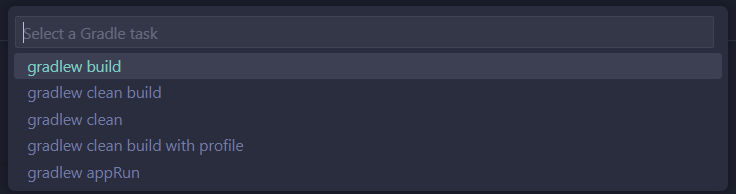
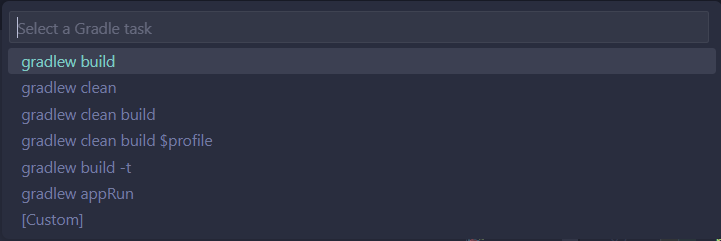
with profile => $profile 로 변경 readme file update

diff --git a/extension.js b/extension.js
@@ -50,10 +50,12 @@ async function selectDirectory() {
 
 async function executeGradleCommand(directory) {
   const config = vscode.workspace.getConfiguration("gradle.build.helper");
-  const commandScript = config.get("command") || "gradlew";
   const gradleTasks = config
     .get("tasks", [])
-    .map((task) => `${commandScript} ${task}`);
+    .map((task) => `${task}`);
+
+  // [Custom] 항목 추가
+  gradleTasks.push("[Custom]");
 
   const selectedTask = await vscode.window.showQuickPick(gradleTasks, {
     placeHolder: "Select a Gradle task",
@@ -62,19 +64,23 @@ async function executeGradleCommand(directory) {
   if (!selectedTask) return;
 
   let terminal = vscode.window.terminals.find(
-    (term) => term.name === "GradleHelper"
+    (term) => term.name === "gradle-build-helper"
   );
   if (!terminal) {
-    terminal = vscode.window.createTerminal("GradleHelper");
+    terminal = vscode.window.createTerminal("gradle-build-helper");
   }
 
-  let command = `${commandScript} `;
+  let command = ``;
 
-  if (directory) {
-    command += `:${directory.replace(/\//g, ":")}:`;
-  }
+  if (selectedTask === "[Custom]") {
+    const customTask = await vscode.window.showInputBox({
+      placeHolder: "Enter the custom Gradle task",
+      prompt: "Type the Gradle task you want to execute.",
+    });
 
-  if (selectedTask.includes("with profile")) {
+    if (!customTask) return;
+    command += `${customTask}`;
+  } else if (selectedTask.includes("$profile")) {
     let profiles = config.get("profiles", []);
 
     // Profile 입력 처리
@@ -92,9 +98,13 @@ async function executeGradleCommand(directory) {
 
     if (!selectedProfile) return;
 
-    command += `${selectedTask.replace(`${commandScript} `, "").replace("with profile", `-Pprofile=${selectedProfile}`)}`;
+    command += `${selectedTask.replace("$profile", `-Pprofile=${selectedProfile}`)}`;
   } else {
-    command += `${selectedTask.replace(`${commandScript} `, "")}`;
+    command += `${selectedTask}`;
+  }
+
+  if (directory) {
+    command += ` -p ${directory}`;
   }
 
   terminal.show();

diff --git a/README.md b/README.md
@@ -30,22 +30,13 @@ Gradle Build Helper is a Visual Studio Code extension that simplifies running Gr
 2. Type and select `Gradle Build Helper`.
 3. Select a directory (if multi-project is enabled).
 4. Choose a Gradle task to execute.
-5. If the selected task includes `with profile`, select one from the available profiles. The selected task will be executed with the profile appended, e.g., `-Pprofile=dev`.
+5. If the selected task includes `$profile`, select one from the available profiles. The selected task will be executed with the profile appended, e.g., `-Pprofile=dev`.
 
 ---
 
 ## Configuration
 
 This extension provides the following configurable options:
-
-### Build Command
-**Property**: `gradle.build.helper.command`
-
-- **Type**: `string`
-- **Default**: `gradlew`
-- **Description**: Default build command used by the extension.
-
----
 
 ### Multi-Project Support
 **Property**: `gradle.build.helper.isMultiProject`
@@ -61,7 +52,7 @@ This extension provides the following configurable options:
 
 - **Type**: `array`
 - **Default**: `["css", "dev"]`
-- **Description**: List of available Gradle profiles. If a task includes `with profile`, you will be prompted to select a profile, and the task will be executed with the selected profile, e.g., `-Pprofile=dev`.
+- **Description**: List of available Gradle profiles. If a task includes `$profile`, you will be prompted to select a profile, and the task will be executed with the selected profile, e.g., `-Pprofile=dev`.
 
 ---
 
@@ -72,15 +63,25 @@ This extension provides the following configurable options:
 - **Default**:
   ```json
   [
-    "build",
-    "clean build",
-    "clean",
-    "clean build with profile",
-    "appRun"
+    "gradlew build",
+    "gradlew clean build",
+    "gradlew build -t",
+    "gradlew clean",
+    "gradlew clean build $profile",
+    "gradlew appRun"
   ]
   ```
-- **Description**: List of available Gradle tasks. Tasks containing `with profile` will require selecting a profile before execution, and the command will be modified to include the profile, e.g., `-Pprofile=dev`.
+- **Description**: List of available Gradle tasks. Tasks containing `$profile` will require selecting a profile before execution, and the command will be modified to include the profile, e.g., `-Pprofile=dev`.
 
+- Note: If you are using MacOS or Linux, replace gradlew with ./gradlew in the task list. For example:
+
+  ```json
+  [
+    "./gradlew build",
+    "./gradlew clean build",
+    ...
+  ]
+  ```
 ---
 
 ### Excluded Directories
@@ -99,14 +100,13 @@ Add the following configuration to your VS Code `settings.json` file to customiz
 {
   "gradle.build.helper.profiles": ["css", "dev", "prod"],
   "gradle.build.helper.tasks": [
-    "build",
-    "clean build",
-    "clean",
-    "clean build with profile",
-    "test",
-    "deploy"
+    "gradlew build",
+    "gradlew clean build",
+    "gradlew clean",
+    "gradlew clean build $profile",
+    "gradlew test",
+    "gradlew deploy"
   ],
-  "gradle.build.helper.command": "./gradlew",
   "gradle.build.helper.isMultiProject": true,
   "gradle.build.helper.excludeDirectory": [".git", "node_modules"]
 }
